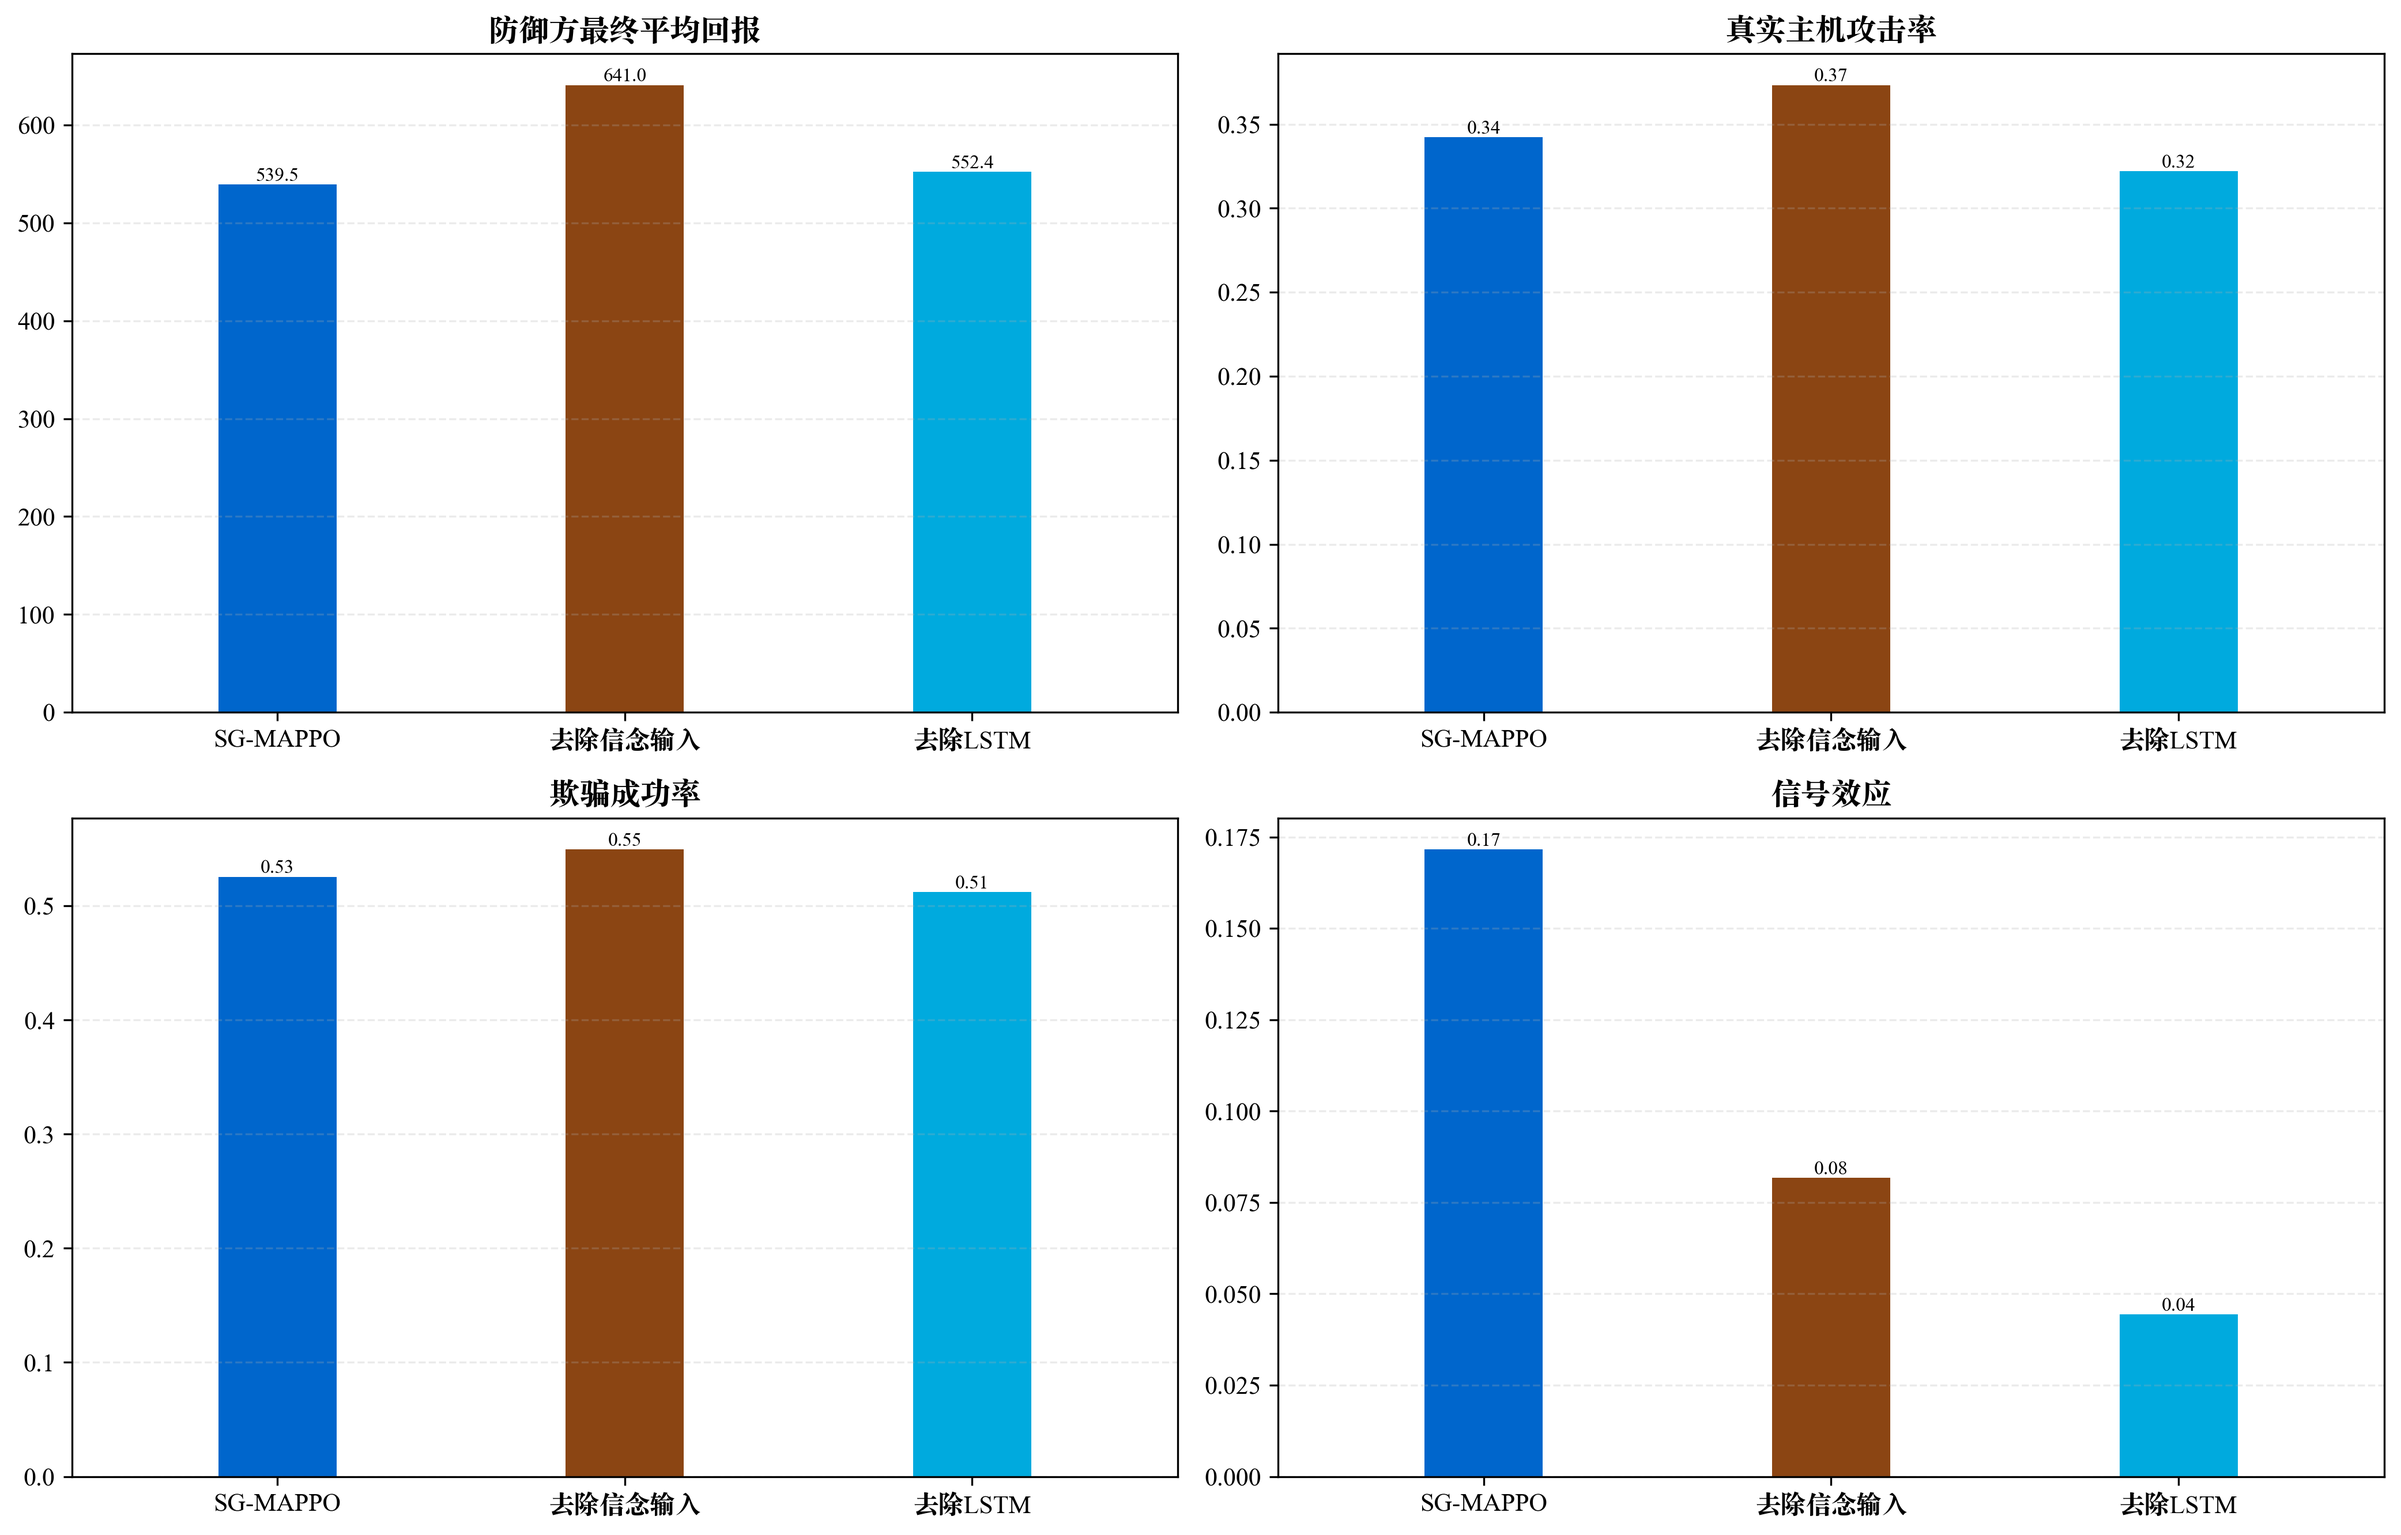
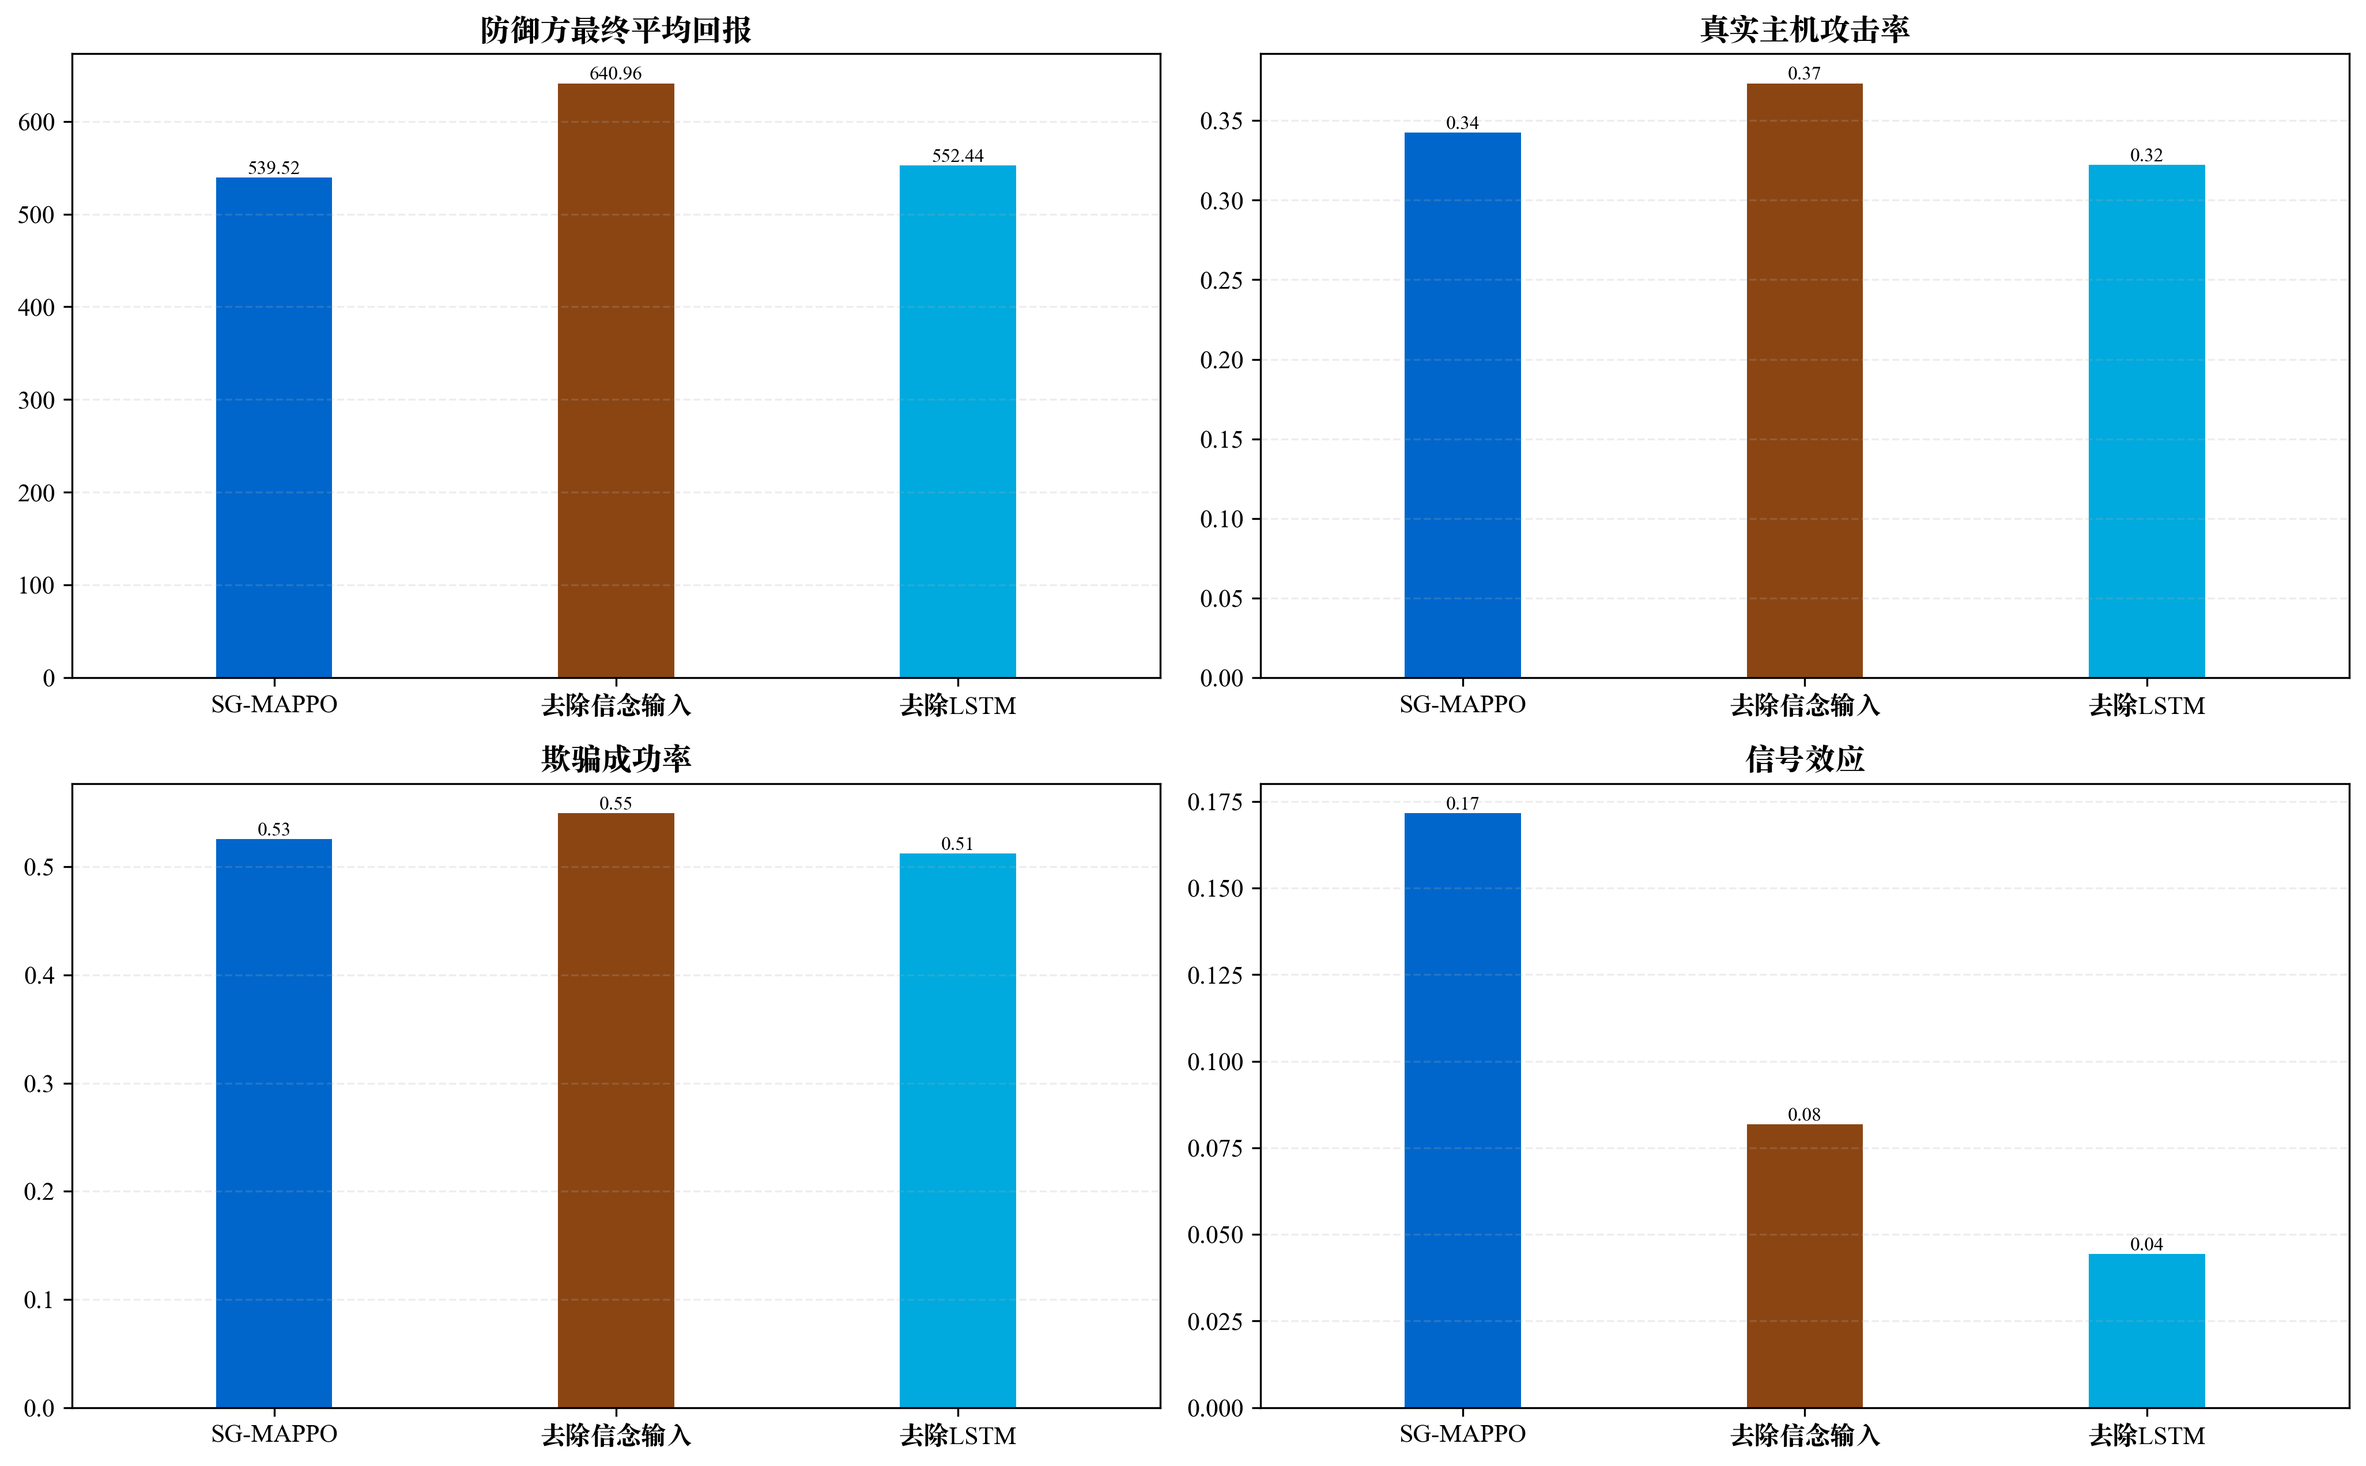
Unify module3 figure styles

diff --git a/sg_marl_simulation/code/experiments/module3/pipeline.py b/sg_marl_simulation/code/experiments/module3/pipeline.py
@@ -358,13 +358,13 @@ def _plot_baseline_trajectory_and_cost(
 ) -> None:
     focus_variants = ["SG-MAPPO", "Plain-MAPPO"]
     results = [result for result in results if result.variant_name in focus_variants]
-    fig, axes = plt.subplots(2, 2, figsize=(14, 9))
+    fig, axes = plt.subplots(2, 2, figsize=(13.8, 8.6))
     axes = axes.flatten()
     palette = {
-        "SG-MAPPO": "#0066CC",
+        "SG-MAPPO": "#4E79A7",
         "SG-MATRPO": "#F28E2B",
         "SG-MAA2C": "#60BD68",
-        "Plain-MAPPO": "#8B4513",
+        "Plain-MAPPO": "#D3725B",
     }
     metric_keys = [
         ("defender_reward", "防御方平均回合收益"),
@@ -378,7 +378,7 @@ def _plot_baseline_trajectory_and_cost(
         values = [float(result.summary_row[metric_key]) for result in results]
         bars = axis.bar(labels, values, color=colors, width=0.34)
         axis.set_title(metric_label)
-        axis.grid(True, axis="y", alpha=0.25, linestyle="--")
+        axis.grid(True, axis="y", alpha=0.22, linestyle="--")
         axis.tick_params(axis="x", rotation=0)
         axis.margins(x=0.18)
         for bar, value in zip(bars, values):
@@ -483,7 +483,7 @@ def _plot_ablation_compare(rows: List[dict], artifacts: ExperimentArtifacts) -> 
         ("deception_success_rate", "欺骗成功率"),
         ("signal_effect", "信号效应"),
     ]
-    fig, axes = plt.subplots(2, 2, figsize=(14, 9))
+    fig, axes = plt.subplots(2, 2, figsize=(13.8, 8.6))
     axes = axes.flatten()
     label_map = {"完整SG-MAPPO": "SG-MAPPO"}
     labels = [label_map.get(row["variant_name"], row["variant_name"]) for row in rows]
@@ -494,7 +494,7 @@ def _plot_ablation_compare(rows: List[dict], artifacts: ExperimentArtifacts) -> 
         bars = axis.bar(labels, values, color=colors[: len(labels)], width=0.34)
         axis.set_title(metric_label)
         axis.tick_params(axis="x", rotation=0)
-        axis.grid(True, axis="y", alpha=0.25, linestyle="--")
+        axis.grid(True, axis="y", alpha=0.22, linestyle="--")
         axis.margins(x=0.18)
         for bar, value in zip(bars, values):
             if value == value:
